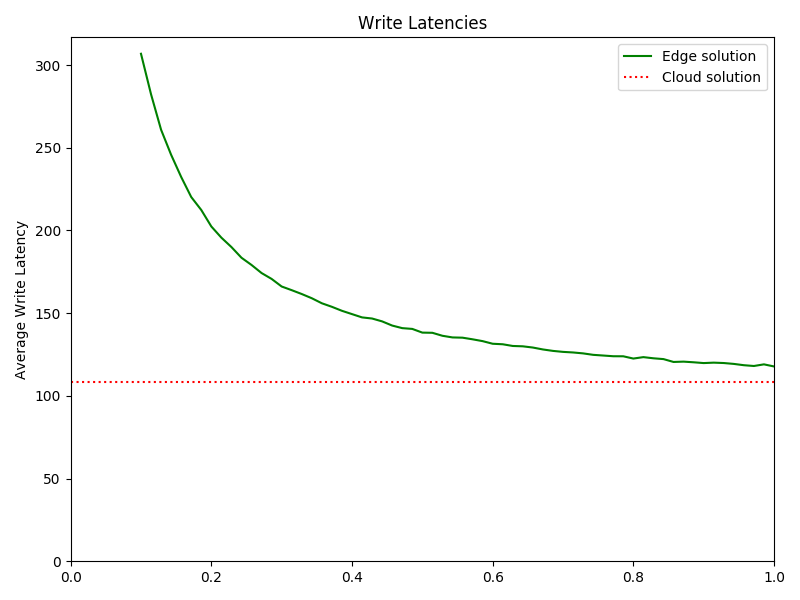
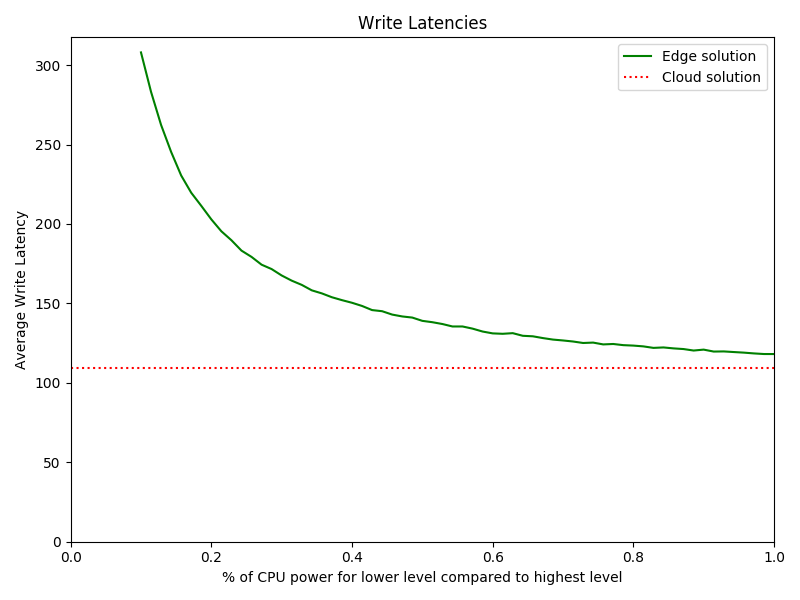
Sync with latest changes from Overleaf

diff --git a/thesis/Chapters/Evaluation.tex b/thesis/Chapters/Evaluation.tex
@@ -20,7 +20,7 @@ Using a popular discrete-event simulator written in Python, called SimPy \cite{s
 \subsection{Components}
 To simulate the framework we developed the following abstract components in SimPy:
 \begin{itemize}
-    \item \inlinecode{Client}: a simplified abstraction of a machine that simply sends or requests data;
+    \item \inlinecode{Client}: a simplified abstraction of a machine that sends or requests data;
     \item \inlinecode{Transmission}: a simplified abstraction of a virtual link between two machines;
     \item \inlinecode{ProcessingUnit}: a simplified abstraction of a machine that performs a processing job;
 \end{itemize}
@@ -54,7 +54,7 @@ To compute the latency the \inlinecode{Transmission} component does as follows:
 
 \[ distance\_delay = \frac{distance}{SPEED\_OF\_SIGNAL} \]
 
-The \inlinecode{network\_delay} is a value representing a constant latency toll that needs to be paid when making the communication, this value simply depends on the \inlinecode{is\_weak\_network} boolean. The network which is used by the client (i.e., Wi-Fi, LTE, copper cables) is considered to be weak.
+The \inlinecode{network\_delay} is a value representing a constant latency toll that needs to be paid when making the communication, this value depends only on the \inlinecode{is\_weak\_network} boolean. The network which is used by the client (i.e., Wi-Fi, LTE, copper cables) is considered to be weak.
 
 The \inlinecode{distance\_delay} is a value that is proportional to the distance that the signal needs to travel.
 
@@ -302,25 +302,181 @@ Many more messages are sent in parallel to the various aggregating \inlinecode{P
 We saw in this experiment that even in a disadvantage situation where our approach is used to aggregate the data in a central manner, which is not the intended use case, the increase in write latency is less than 27\%, but the improvement in terms of traffic sent in the network is tremendous.
 
 
-\subsubsection{Write all levels, with CPU core performance as parameter}
+\subsubsection{Write all levels, with cores performance as parameter}
 As in the previous experiment we are working in a scenario where the developer imposes writes on all levels in the edge approach.
 
-In our simulation we represented the performance of the cores as a processing bandwidth, so we specified how much data a core can process in a second. In the previous experiments we used the default values reported in Section \ref{section:simulation_setting}, so we arbitrarily assumed that the \inlinecode{ProcessingLocationDistrict} and \inlinecode{ProcessingLocationCity} have 50\% of the performance of \inlinecode{ProcessingLocationCentral}. We now analyze the behaviour of the latency while slowly changing this percentage to show that the increase in write latency is not substantial.
+In our simulation we represented the performance of the cores as a processing bandwidth, so we specified how much megabytes a core can process in a second. In the previous experiments we used the default values reported in Section \ref{section:simulation_setting}, so we arbitrarily assumed that the \inlinecode{ProcessingLocationDistrict} and \inlinecode{ProcessingLocationCity} have 50\% of the performance of \inlinecode{ProcessingLocationCentral}. We now analyze the behaviour of the latency while slowly changing this percentage to show that the increase in write latency is not substantial.
 
 \begin{figure}[H]
     \centering
     \includegraphics[width=0.95\linewidth]{Figures/Evaluation/write-all-cpu-latency.png}
-    \caption{Average write latency of the edge solution while changing the CPU core performance of lower levels}
+    \caption{Average write latency of the edge solution as a function of the cores performance of lower levels}
     \label{fig:/write-all-cpu-latency}
 \end{figure}
 
-In Figure \ref{fig:/write-all-cpu-latency} it is shown the changing write latency of the edge solution due to the changing performance of the \inlinecode{ProcessingUnits} cores, compared to the constant latency of the cloud solution. From 1.0 to 0.40 we have an almost linear increase, which is not substantial. Then down from 0.40 the cores can't keep up with the requests and start to put them in queue, creating an exponential increase in the latency.
+In Figure \ref{fig:/write-all-cpu-latency} it is shown the changing write latency of the edge solution due to the changing performance of the \inlinecode{ProcessingUnits} cores, compared to the constant latency of the cloud solution.
+
+Note that the value 0.1 on the x-axis means that the performance of the core at the edge is 0.1 times (10\%) the performance of the core of cloud solution.
+
+From 1.0 to 0.40 we have an almost linear increase, which is not substantial. Then down from 0.40 the cores can't keep up with the requests and start to put them in queue, creating an exponential increase in the latency.
 
 So this experiment shows the following:
 \begin{itemize}
     \item By having a lower performance in the \inlinecode{ProcessingUnits} at the edge the processing latency increase linearly, making the write latency also increase linearly;
     \item By having a lower performance in the \inlinecode{ProcessingUnits} at the edge it becomes easier to reach a limit where the cores can't keep up with the requests, creating an exponential increase in the write latency.
 \end{itemize}
+
+
+\subsubsection{Write all levels, with number of clients as parameter}
+In this experiment we are again working in the scenario where the developer imposes writes on all levels while using the edge approach. But now we want to simulate, in this extreme setup, how our framework behaves when the number of clients rises without modifying other parameters.
+We start from 1000 clients, rising up to 350'000 clients.
+
+\begin{figure}[H]
+    \centering
+    \includegraphics[width=0.95\linewidth]{Figures/Evaluation/write-all-clients-latency.png}
+    \caption{Average write latency as a function of the number of clients}
+    \label{fig:/write-all-clients-latency}
+\end{figure}
+
+As expected we see in Figure \ref{fig:/write-all-clients-latency} that, when the number of clients becomes too much to handle, both the cores at the edge and the cores in the cloud are overwhelmed and can't keep up with the requests causing the queues to grow indefinitely and consequently making the average latency grow.
+
+We can also notice how the number of cores affects the latency: in the edge approach by having a low number of cores it's easier to be unlucky and having a momentary spike where the \inlinecode{ProcessingLocationDistrict} can't keep up with the requests, causing new requests to be queued for a short time. Basically by increasing the number of clients it become more probable to have a random spike in the requests, that a single \inlinecode{ProcessingLocationDistrict} cannot handle immediately since equipped with only 2 cores. This phenomenon causes a continuous increase in the average latency for the edge solution.
+Instead in the cloud solution, to start to queue requests we have to first fill the 1000 cores, and for that to happen it needs many more clients.
+
+It's important also to consider that in our simulation we are not modelling the access to the database: in a cloud scenario in which writes happen to a single instance of the database it can easily become a bottleneck if not replicated and handed correctly.
+
+But again the improvements relative to the traffic generated in the network are immense. In Figure \ref{fig:/write-all-clients-traffic} we show the total traffic*distance as a function of the number of clients. Both the edge solution and cloud solution have a linear increase, but the coefficient of the increase in the cloud solution is evidently bigger than the one of the edge solution.
+
+\begin{figure}[H]
+    \centering
+    \includegraphics[width=0.95\linewidth]{Figures/Evaluation/write-all-clients-traffic.png}
+    \caption{Total traffic*distance as a function of the number of clients}
+    \label{fig:/write-all-clients-traffic}
+\end{figure}
+
+In this experiment we showed that our framework can keep up effectively with heavy load, with only minor random congestions at the lower levels of the hierarchy. But still provide immensely benefits in term of traffic through the network.
+
+
+\subsubsection{Read by level}
+We now start with a new type of experiment, focusing on the reads and not on the writes. We will immediately see the benefit on the latency since by having a geographical aggregation we can avoid to travel huge distances.
+In practice in this experiment we have different setups in which every \inlinecode{DataReaderClients} in the setup communicates to a certain level of the hierarchy of the edge solution. While in the cloud solution they can only communicate to the central cloud.
+In the figures reported below we can see, for each level of aggregation, the average latency and the average distance traveled, compared to the cloud solution.
+
+\begin{figure}[H]
+\begin{minipage}{0.49\textwidth}
+\centering
+\includegraphics[width=1\linewidth]{Figures/Evaluation/read-by-latency-District-Aggregation.png}
+\end{minipage}
+\hfill
+\begin{minipage}{0.49\textwidth}
+\centering
+\includegraphics[width=1\linewidth]{Figures/Evaluation/read-by-distance-District-Aggregation.png}
+\end{minipage}
+\label{fig:read-by-district}
+\caption{Average latency and average distance traveled for the district aggregation compared to a central aggregation}
+\end{figure}
+
+\begin{figure}[H]
+\begin{minipage}{0.49\textwidth}
+\centering
+\includegraphics[width=1\linewidth]{Figures/Evaluation/read-by-latency-City-Aggregation.png}
+\end{minipage}
+\hfill
+\begin{minipage}{0.49\textwidth}
+\centering
+\includegraphics[width=1\linewidth]{Figures/Evaluation/read-by-distance-City-Aggregation.png}
+\end{minipage}
+\label{fig:read-by-city}
+\caption{Average latency and average distance traveled for the city aggregation compared to a central aggregation}
+\end{figure}
+
+\begin{figure}[H]
+\begin{minipage}{0.49\textwidth}
+\centering
+\includegraphics[width=1\linewidth]{Figures/Evaluation/read-by-latency-Territory-Aggregation.png}
+\end{minipage}
+\hfill
+\begin{minipage}{0.49\textwidth}
+\centering
+\includegraphics[width=1\linewidth]{Figures/Evaluation/read-by-distance-Territory-Aggregation.png}
+\end{minipage}
+\label{fig:read-by-city}
+\caption{Average latency and average distance traveled for the territory aggregation compared to a central aggregation}
+\end{figure}
+
+\begin{figure}[H]
+\begin{minipage}{0.49\textwidth}
+\centering
+\includegraphics[width=1\linewidth]{Figures/Evaluation/read-by-latency-Country-Aggregation.png}
+\end{minipage}
+\hfill
+\begin{minipage}{0.49\textwidth}
+\centering
+\includegraphics[width=1\linewidth]{Figures/Evaluation/read-by-distance-Country-Aggregation.png}
+\end{minipage}
+\label{fig:read-by-city}
+\caption{Average latency and average distance traveled for the country aggregation compared to a central aggregation}
+\end{figure}
+
+\begin{figure}[H]
+\begin{minipage}{0.49\textwidth}
+\centering
+\includegraphics[width=1\linewidth]{Figures/Evaluation/read-by-latency-Continent-Aggregation.png}
+\end{minipage}
+\hfill
+\begin{minipage}{0.49\textwidth}
+\centering
+\includegraphics[width=1\linewidth]{Figures/Evaluation/read-by-distance-Continent-Aggregation.png}
+\end{minipage}
+\label{fig:read-by-city}
+\caption{Average latency and average distance traveled for the continent aggregation compared to a central aggregation}
+\end{figure}
+
+If we go up in the hierarchy to perform the aggregation we become more distant to the reading client, creating a bigger latency on average.
+
+We can see also how the average latency is proportional to the average distance: when the distance increases, so does the latency due to the bigger travel distance.
+
+If we compare the best scenario, in which the aggregation is performed at the lowest level, to the cloud solution we see that the cloud solution creates a latency 350\% bigger than the district (19.5 ms compared to 88.5 ms). 
+
+
+\subsubsection{Read all levels}
+This time we allow clients to perform the reads on every level, this means that to have the data available the writes must have happen with the \inlinecode{saveAlsoInIntermediateLevels} boolean set to \inlinecode{true}.
+In the 51 setups that we ran we increased the probability of making a read on an upper level of the hierarchy. The first setup performs all the read requests at the district level, in the intermediate setup the clients perform the read requests with almost an equal probability to all levels, while the last setup performs all the read requests to the single central level.
+
+\begin{figure}[H]
+    \centering
+    \includegraphics[width=0.95\linewidth]{Figures/Evaluation/read-all-latency.png}
+    \caption{Average read latency as a function of the probability of making the read request to an higher level}
+    \label{fig:/read-all-latency}
+\end{figure}
+
+\begin{figure}[H]
+    \centering
+    \includegraphics[width=0.95\linewidth]{Figures/Evaluation/read-all-distance.png}
+     \caption{Average distance traveled for the request as a function of the probability of making the read request to an higher level}
+    \label{fig:/read-all-distance}
+\end{figure}
+
+As expected we see a monotonic increase in the latency and a strict correlation between the average distance traveled and the average latency.
+
+\subsubsection{Read district level, with cores performance as parameter}
+In this experiment clients make read requests to the lowest level of the hierarchy, the district level, and we study the latency as a function of the cores performance of this level.
+We arbitrarily assumed that the \inlinecode{ProcessingLocationDistrict} has 50\% of the performance of \inlinecode{ProcessingLocationCentral}, but now we slowly change this percentage to analyze the behaviour of the latency.
+
+\begin{figure}[H]
+    \centering
+    \includegraphics[width=0.95\linewidth]{Figures/Evaluation/read-district-cpu-latency.png}
+    \caption{Average read latency of the edge solution as a function of the cores performance of lower levels}
+    \label{fig:/read-district-cpu-latency}
+\end{figure}
+
+As can be seen in Figure \ref{fig:/read-district-cpu-latency}, the effects of slower cores start to affect the latency only when reaching very low percentages i.e., 10\%, and still even at 1\% of the performance the latency is smaller than the one of the cloud solution. This is because a read request is a fast operation and is not a processing intensive task, so the cores can manage the load comfortably.
+
+
+
+
+
+
 
 
 
